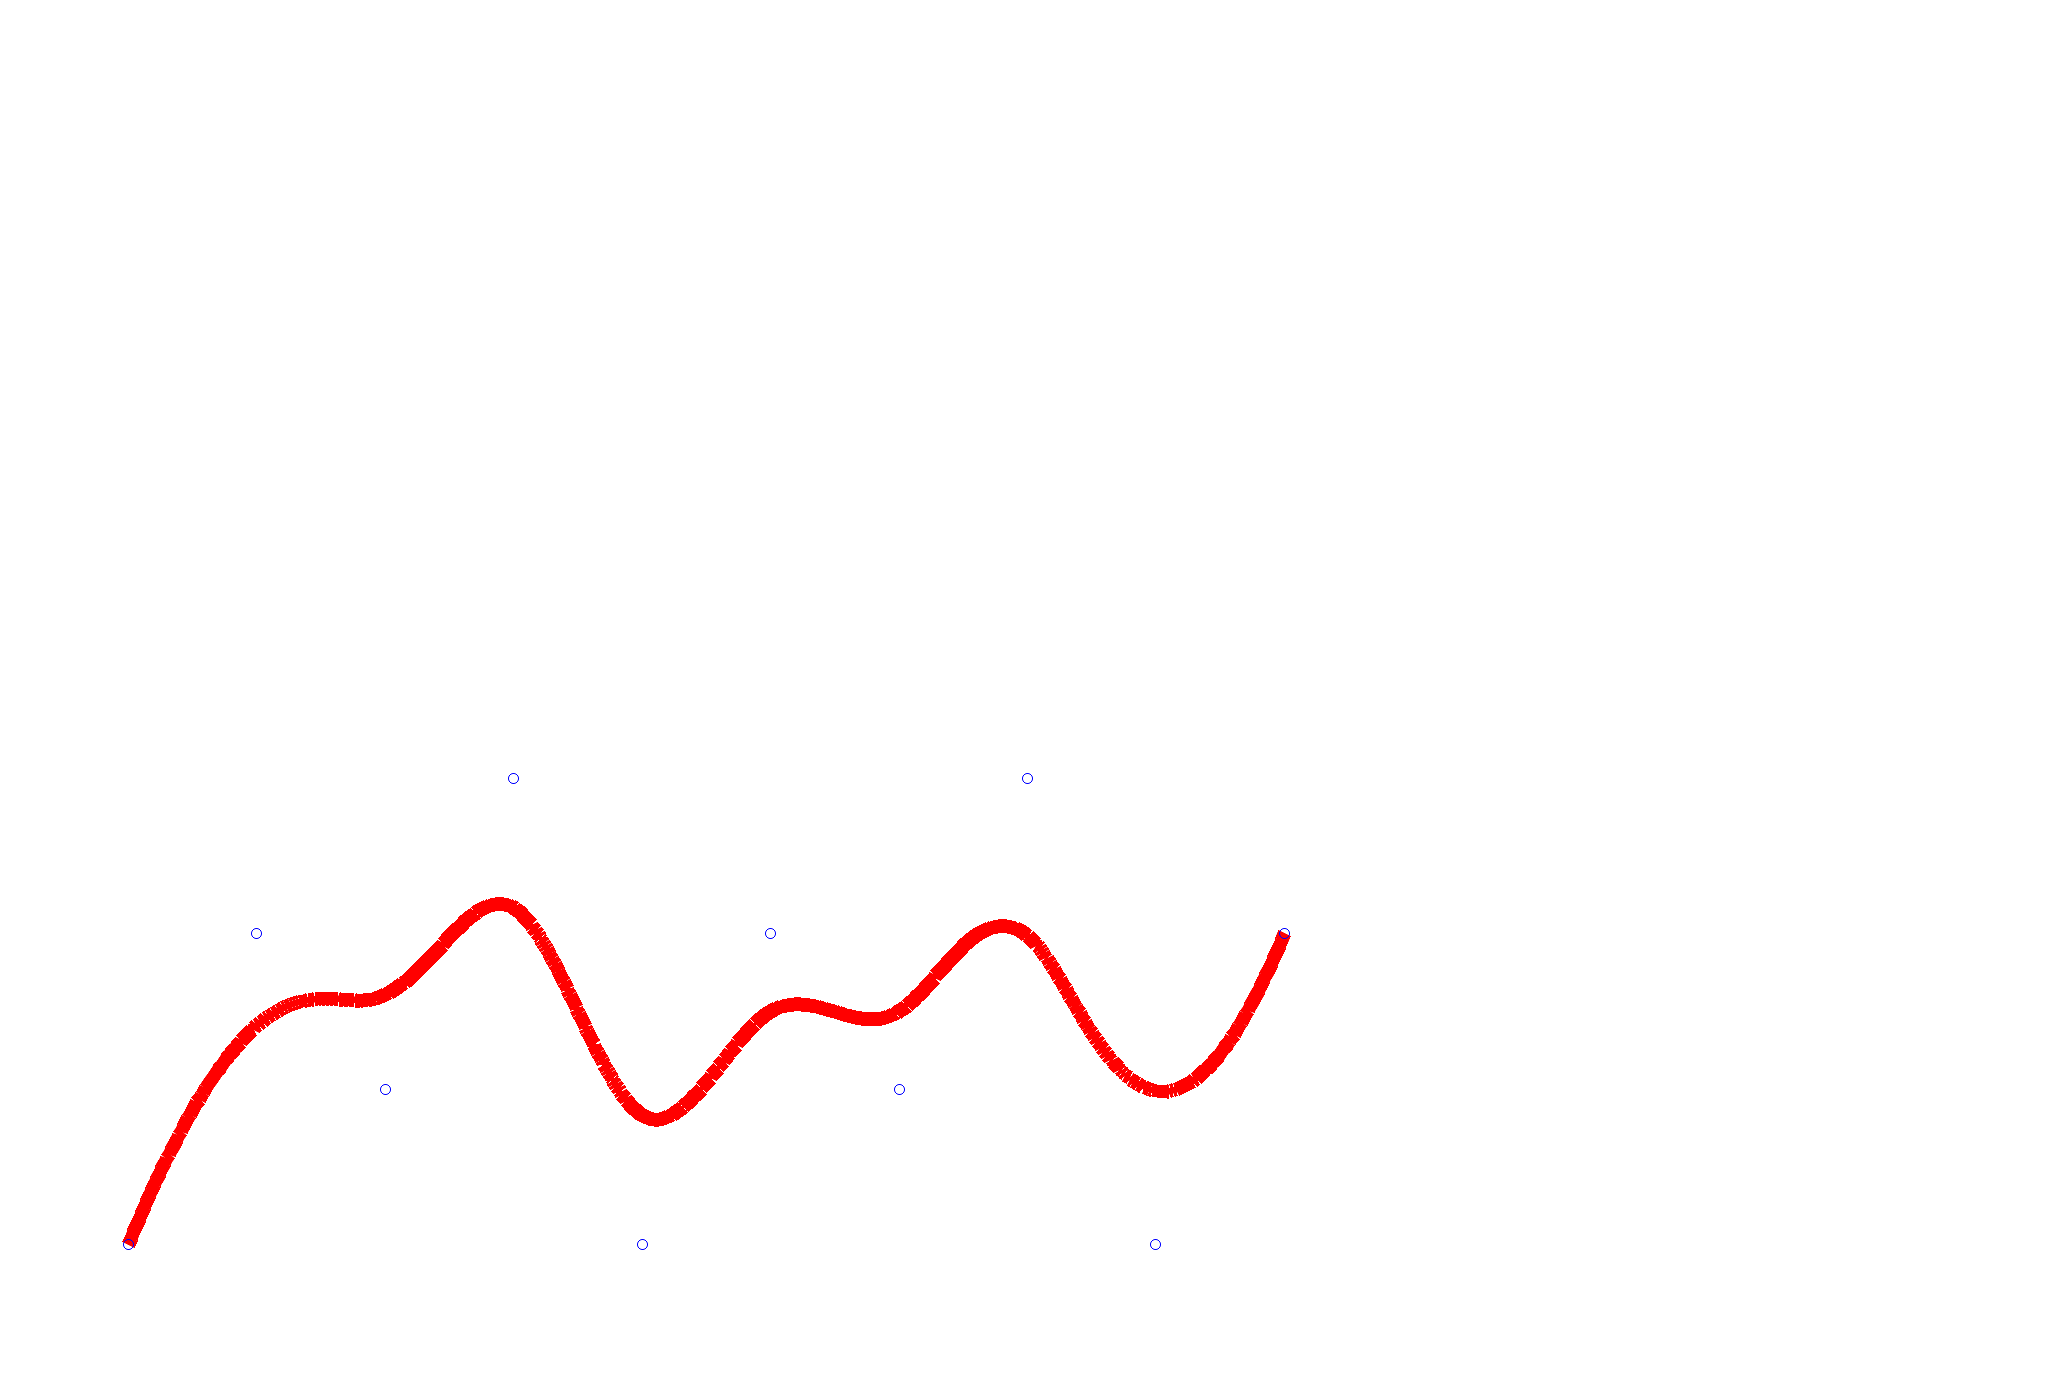
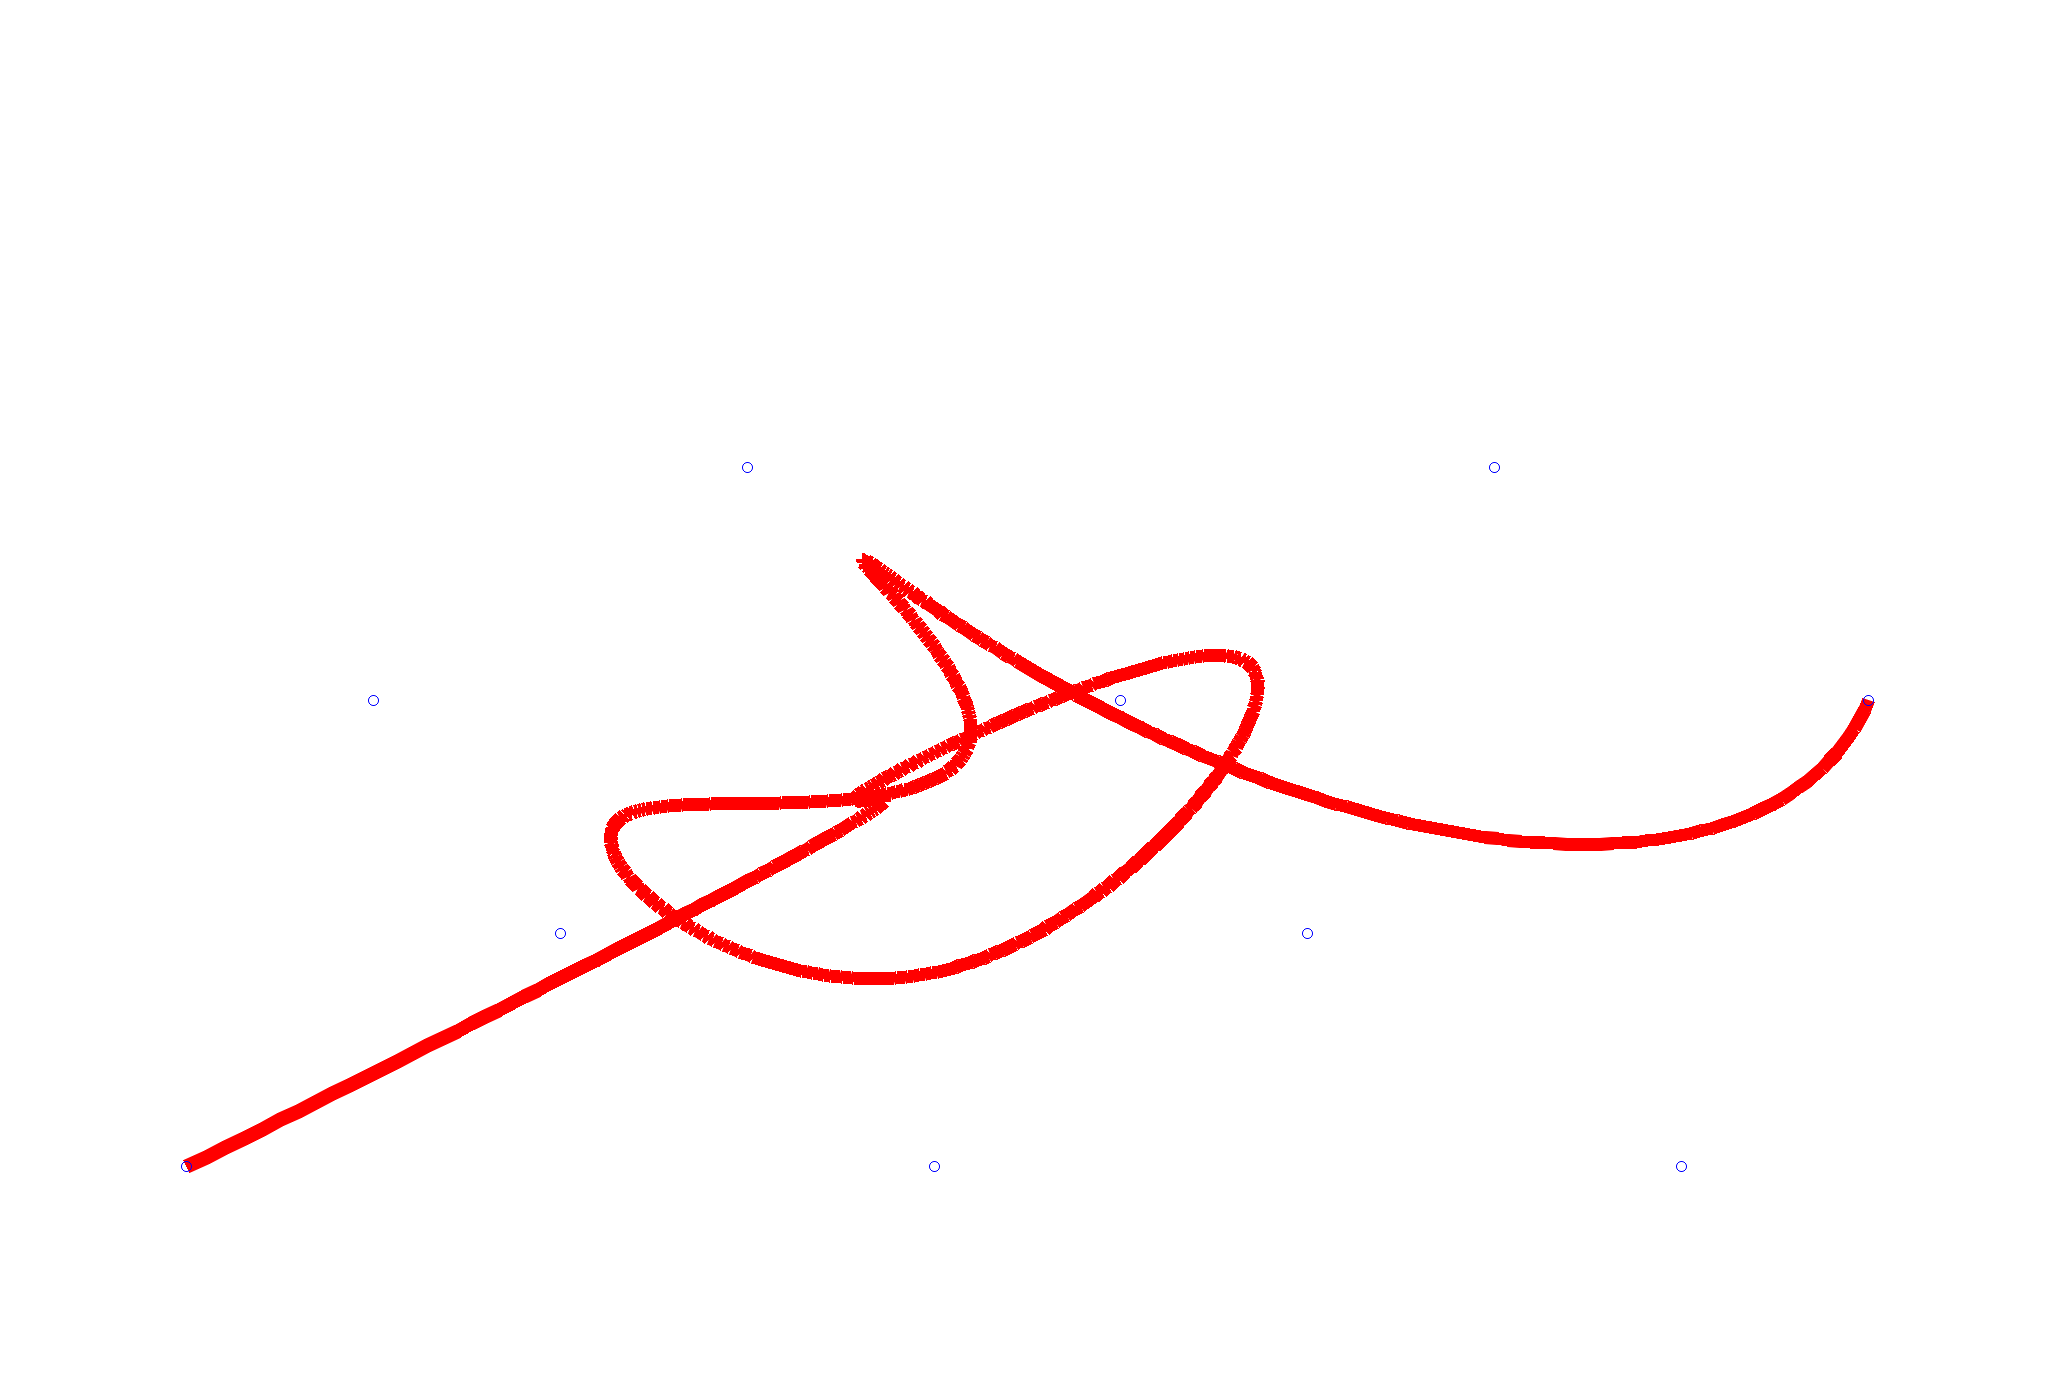
removed b-spline implementation as NURBS is a generalization of b-spline, added some documentation

diff --git a/src/interpolate/nurbs.rs b/src/interpolate/nurbs.rs
@@ -89,88 +89,6 @@ fn find_knot_span(t: f64, knot_vector: &[f64]) -> Option<usize> {
         .position(|window| t >= window[0] && t < window[1])
 }
 
-pub struct BSpline {
-    ctrl_pts: Vec<(f64, f64)>,
-    p: usize,
-    knot_vector: Vec<f64>,
-}
-
-impl BSpline {
-    /// Constructs a new instance of a B-spline curve.
-    ///
-    /// # Parameters
-    ///
-    /// - `ctrl_pts: &[(f64, f64)]`: A slice of control points, each represented as a tuple `(x, y)`.
-    ///   These points define the shape of the B-spline curve.
-    /// - `p: usize`: The degree of the B-spline curve. This determines the smoothness and complexity of the curve.
-    ///
-    /// # Returns
-    ///
-    /// - `Result<Self, ParametricCurveError>`: Returns an `Ok` variant containing the newly created B-spline curve
-    ///   if successful. If the function encounters an error, it returns an `Err` variant containing a `ParametricCurveError`.
-    ///
-    /// # Errors
-    ///
-    /// - `ParametricCurveError::InvalidBSplineConfiguration`: This error is returned if the number of control points
-    ///   is insufficient for the given degree `p`.
-    ///
-    /// # Notes
-    ///
-    /// - The function internally clones the provided control points and constructs a uniform knot vector based
-    ///   on the number of control points and the degree `p`.
-    /// - The knot vector is stored as part of the B-spline object for future evaluations of the curve.
-    pub(crate) fn new(ctrl_pts: &[(f64, f64)], p: usize) -> Result<Self, ParametricCurveError> {
-        let ctrl_pts_copy = ctrl_pts.to_vec();
-        let knot_vector = construct_uniform_knot_vector(ctrl_pts_copy.len(), p)?;
-        Ok(Self {
-            ctrl_pts: ctrl_pts_copy,
-            p,
-            knot_vector,
-        })
-    }
-
-    /// Evaluates the B-spline curve at a given parameter `t` using De Boor's Algorithm.
-    ///
-    /// # Parameters
-    /// - `t`: The parameter at which to evaluate the curve. Must be in the range [0, 1].
-    ///
-    /// # Returns
-    /// - `Option<(f64, f64)>`: The point `(x, y)` on the curve corresponding to the parameter `t`.
-    ///   Returns `None` if `t` is out of range or if the knot span cannot be found.
-    ///
-    /// # Algorithm
-    /// 1. Finds the knot span index `i` for the given parameter `t` using the knot vector.
-    /// 2. Extracts the local control points that influence the curve at `t`.
-    /// 3. Applies De Boor's Algorithm to iteratively compute the point on the curve.
-    ///
-    /// # Notes
-    /// - This function assumes that the knot vector and control points are already set.
-    /// - The function uses a uniform knot vector.
-    /// - The function is designed to work with non-rational B-splines.
-    ///
-    /// # Errors
-    /// - Returns `None` if `t` is not in the range [0, 1] or if the knot span cannot be found.
-    pub fn eval(&self, t: f64) -> Option<(f64, f64)> {
-        let i = find_knot_span(t, &self.knot_vector)?;
-
-        let mut local_ctrl_pts = self.ctrl_pts[i - self.p..=i].to_vec();
-
-        // De Boor's Algorithm
-        for r in 1..=self.p {
-            for j in (r..=self.p).rev() {
-                let alpha = (t - self.knot_vector[i + j - self.p])
-                    / (self.knot_vector[i + j + 1 - r] - self.knot_vector[i + j - self.p]);
-                local_ctrl_pts[j].0 =
-                    (1.0 - alpha) * local_ctrl_pts[j - 1].0 + alpha * local_ctrl_pts[j].0;
-                local_ctrl_pts[j].1 =
-                    (1.0 - alpha) * local_ctrl_pts[j - 1].1 + alpha * local_ctrl_pts[j].1;
-            }
-        }
-
-        Some(local_ctrl_pts[self.p])
-    }
-}
-
 pub struct Nurbs {
     ctrl_pts: Vec<(f64, f64)>,
     weights: Vec<f64>,
@@ -179,6 +97,35 @@ pub struct Nurbs {
 }
 
 impl Nurbs {
+    /// Constructs a new `Nurbs` curve with the given parameters.
+    ///
+    /// This constructor performs a series of validations to ensure that the NURBS curve is well-defined. Specifically, it checks the degree, knot vector, and weights to ensure they meet the requirements for a valid NURBS curve.
+    ///
+    /// # Parameters
+    ///
+    /// * `ctrl_pts: &[(f64, f64)]` - A slice of control points, each represented as a tuple `(x, y)`.
+    /// * `p: usize` - The degree of the curve.
+    /// * `weights: Option<&[f64]>` - An optional slice of weights, one for each control point. If not provided, uniform weights of 1.0 are assumed.
+    /// * `knot_vector: Option<&[f64]>` - An optional slice representing the knot vector. If not provided, a uniform knot vector is constructed.
+    ///
+    /// # Returns
+    ///
+    /// * `Result<Self, ParametricCurveError>` - Returns `Ok(Nurbs)` if the curve is successfully constructed, otherwise returns an `Err` with a `ParametricCurveError` detailing the reason for the failure.
+    ///
+    /// # Validations
+    ///
+    /// 1. **Degree**: The degree `p` must be less than the number of control points `n`.
+    /// 2. **Knot Vector**: If provided, the knot vector must meet the following criteria:
+    ///     - Its length must be `n + p + 1`.
+    ///     - It must be non-decreasing.
+    ///     - The multiplicity of the first and last knots should be `p + 1`.
+    ///     - The multiplicity of internal knots should not exceed `p`.
+    /// 3. **Weights**: If provided, all weights must be non-negative.
+    ///
+    /// # Errors
+    ///
+    /// Returns a `ParametricCurveError` if any of the validations fail.
+    ///
     pub(crate) fn new(
         ctrl_pts: &[(f64, f64)],
         p: usize,
@@ -257,7 +204,7 @@ impl Nurbs {
             }
 
             // Non-Positive Weights: All weights should be positive. If any weight is zero or negative, throw an error.
-            if weights.iter().any(|&x| x < 0.0) {
+            if weights.iter().any(|&x| x <= 0.0) {
                 return Err(ParametricCurveError::NURBSConfiguration(
                     "Negative weight has been encountered. Be sure to have non negative values in weights vector.".to_string(),
                 ));
@@ -278,6 +225,18 @@ impl Nurbs {
         })
     }
 
+    /// Evaluates the NURBS curve at a given parameter `t`.
+    ///
+    /// This method uses De Boor's Algorithm to compute the Cartesian coordinates `(x, y)` of the point on the curve corresponding to the parameter `t`. The algorithm is applied in the homogeneous coordinate space and then converted back to Cartesian coordinates.
+    ///
+    /// # Parameters
+    ///
+    /// * `t: f64` - The parameter at which to evaluate the curve. It should lie within the domain defined by the knot vector.
+    ///
+    /// # Returns
+    ///
+    /// * `Option<(f64, f64)>` - Returns `Some((x, y))` where `(x, y)` are the Cartesian coordinates of the point on the curve at parameter `t`. Returns `None` if `t` is outside the domain of the curve.
+    ///
     pub fn eval(&self, t: f64) -> Option<(f64, f64)> {
         let i = find_knot_span(t, &self.knot_vector)?;
 
@@ -319,6 +278,29 @@ impl Nurbs {
         Some(final_point)
     }
 
+    /// Sets the value of the knot at a specific index in the knot vector.
+    ///
+    /// This method performs validations to ensure that the new knot value maintains the integrity of the NURBS curve. Specifically, it checks for out-of-bounds index, clamping conditions, and non-decreasing order of the knot vector.
+    ///
+    /// # Parameters
+    ///
+    /// * `index: usize` - The index in the knot vector where the new knot value will be set.
+    /// * `value: f64` - The new knot value.
+    ///
+    /// # Returns
+    ///
+    /// * `Result<(), ParametricCurveError>` - Returns `Ok(())` if the knot value is successfully set. Otherwise, returns an `Err` with a `ParametricCurveError` detailing the reason for the failure.
+    ///
+    /// # Validations
+    ///
+    /// 1. **Out-of-Bounds**: The index must be within the range of the knot vector.
+    /// 2. **Clamping Condition**: The index must not be within the first or last `p + 1` knots, where `p` is the degree of the curve.
+    /// 3. **Non-Decreasing Order**: The new knot value must maintain the non-decreasing order of the knot vector.
+    ///
+    /// # Errors
+    ///
+    /// Returns a `ParametricCurveError` if any of the validations fail.
+    ///
     pub fn set_knot_at(&mut self, index: usize, value: f64) -> Result<(), ParametricCurveError> {
         // Check for out-of-bounds index
         if index >= self.knot_vector.len() {
@@ -340,12 +322,42 @@ impl Nurbs {
         Ok(())
     }
 
-    pub fn set_weight_at(&mut self, index: usize, value: f64) -> Result<(), &'static str> {
+    /// Sets the weight of a control point at a specific index.
+    ///
+    /// This method updates the weight associated with the control point at the given index. It performs validations to ensure that the index is within the bounds of the weights vector and that the weight is a positive value.
+    ///
+    /// # Parameters
+    ///
+    /// * `index: usize` - The index in the weights vector where the new weight will be set.
+    /// * `value: f64` - The new weight value.
+    ///
+    /// # Returns
+    ///
+    /// * `Result<(), ParametricCurveError>` - Returns `Ok(())` if the weight is successfully set. Otherwise, returns an `Err` with a `ParametricCurveError` detailing the reason for the failure.
+    ///
+    /// # Validations
+    ///
+    /// 1. **Out-of-Bounds**: The index must be within the range of the weights vector.
+    /// 2. **Positive Value**: The weight must be a positive real number.
+    ///
+    /// # Errors
+    ///
+    /// Returns a `ParametricCurveError` if the index is out of bounds or the weight is not a positive value.
+    ///
+    pub fn set_weight_at(&mut self, index: usize, value: f64) -> Result<(), ParametricCurveError> {
         if index < self.weights.len() {
-            self.weights[index] = value;
-            Ok(())
+            if value > 0.0 {
+                self.weights[index] = value;
+                Ok(())
+            } else {
+                Err(ParametricCurveError::NURBSConfiguration(
+                    "Weight value should be a positive value.".to_string(),
+                ))
+            }
         } else {
-            Err("Index out of bounds")
+            Err(ParametricCurveError::NURBSConfiguration(
+                "Weight index out of bounds.".to_string(),
+            ))
         }
     }
 }

diff --git a/src/interpolate/parametric_curve.rs b/src/interpolate/parametric_curve.rs
@@ -1,7 +1,4 @@
-use super::{
-    b_spline::{BSpline, Nurbs},
-    cubic_bezier::CubicBezierCurve,
-};
+use super::{cubic_bezier::CubicBezierCurve, nurbs::Nurbs};
 
 /// Constructs a new cubic Bezier curve.
 ///
@@ -21,46 +18,60 @@ pub fn cubic_bezier(
     CubicBezierCurve::new(p0, p1, p2, p3)
 }
 
-/// Constructs a new cubic B-spline curve.
+/// Creates a NURBS curve with the given control points and degree.
+///
+/// This function serves as a simplified API for creating a NURBS curve. It only requires the control points and the degree of the curve, using default values for the weights and knot vector.
 ///
 /// # Parameters
 ///
-/// - `ctrl_pts: &[(f64, f64)]`: A slice of control points that define the B-spline curve.
+/// * `ctrl_pts: &[(f64, f64)]` - An array of control points for the curve.
+/// * `p: usize` - The degree of the curve.
 ///
 /// # Returns
 ///
-/// - `Result<BSpline, super::error_utils::ParametricCurveError>`: A new cubic B-spline curve object or an error.
-pub fn cubic_bspline(
-    ctrl_pts: &[(f64, f64)],
-) -> Result<BSpline, super::error_utils::ParametricCurveError> {
-    BSpline::new(ctrl_pts, 3)
-}
-
-/// Constructs a new B-spline curve of degree `p`.
+/// * `Result<Nurbs, super::error_utils::ParametricCurveError>` - Returns a `Nurbs` object if the curve is successfully created. Otherwise, returns an `Err` with a `ParametricCurveError` detailing the reason for the failure.
 ///
-/// # Parameters
+/// # Examples
 ///
-/// - `ctrl_pts: &[(f64, f64)]`: A slice of control points that define the B-spline curve.
-/// - `p: usize`: The degree of the B-spline curve.
-///
-/// # Returns
-///
-/// - `Result<BSpline, super::error_utils::ParametricCurveError>`: A new B-spline curve object or an error.
-pub fn bspline(
-    ctrl_pts: &[(f64, f64)],
-    p: usize,
-) -> Result<BSpline, super::error_utils::ParametricCurveError> {
-    BSpline::new(ctrl_pts, p)
-}
-
-pub fn nurbs(
+/// ```
+/// use snt::interpolate::parametric_curve::nurbs_curve;
+/// let ctrl_pts = vec![(0.0, 0.0), (1.0, 1.0), (2.0, 0.0)];
+/// let p = 2;
+/// let curve = nurbs_curve(&ctrl_pts, p);
+/// ```
+pub fn nurbs_curve(
     ctrl_pts: &[(f64, f64)],
     p: usize,
 ) -> Result<Nurbs, super::error_utils::ParametricCurveError> {
     Nurbs::new(ctrl_pts, p, None, None)
 }
 
-pub fn nurbs_advanced(
+/// Creates a NURBS curve with advanced options.
+///
+/// This function provides a more advanced API for creating a NURBS curve, allowing for custom weights and knot vectors in addition to the control points and degree.
+///
+/// # Parameters
+///
+/// * `ctrl_pts: &[(f64, f64)]` - An array of control points for the curve.
+/// * `p: usize` - The degree of the curve.
+/// * `weights: Option<&[f64]>` - An optional array of weights for the control points.
+/// * `knot_vector: Option<&[f64]>` - An optional knot vector for the curve.
+///
+/// # Returns
+///
+/// * `Result<Nurbs, super::error_utils::ParametricCurveError>` - Returns a `Nurbs` object if the curve is successfully created. Otherwise, returns an `Err` with a `ParametricCurveError` detailing the reason for the failure.
+///
+/// # Examples
+///
+/// ```
+/// use snt::interpolate::parametric_curve::nurbs_curve_advanced;
+/// let ctrl_pts = vec![(0.0, 0.0), (1.0, 1.0), (2.0, 0.0)];
+/// let p = 2;
+/// let weights = vec![1.0, 0.5, 1.0];
+/// let knot_vector = vec![0.0, 0.0, 0.0, 1.0, 1.0, 1.0];
+/// let curve = nurbs_curve_advanced(&ctrl_pts, p, Some(&weights), Some(&knot_vector));
+/// ```
+pub fn nurbs_curve_advanced(
     ctrl_pts: &[(f64, f64)],
     p: usize,
     weights: Option<&[f64]>,

diff --git a/tests/nurbs_tests.rs b/tests/nurbs_tests.rs
@@ -1,31 +1,31 @@
 #[cfg(test)]
 mod nurbs_tests {
-    use snt::interpolate::parametric_curve::nurbs;
+    use snt::interpolate::parametric_curve::nurbs_curve;
 
     #[test]
     pub fn nurbs_test() -> Result<(), Box<dyn std::error::Error>> {
         use plotters::prelude::*;
         let root_drawing_area =
-            BitMapBackend::new("nurbs_img_2.png", (2056, 1400)).into_drawing_area();
+            BitMapBackend::new("nurbs_img_1.png", (2056, 1400)).into_drawing_area();
         root_drawing_area.fill(&WHITE)?;
 
         let mut chart =
-            ChartBuilder::on(&root_drawing_area).build_cartesian_2d(-1f64..15f64, -1f64..8f64)?;
+            ChartBuilder::on(&root_drawing_area).build_cartesian_2d(-1f64..10f64, -1f64..5f64)?;
 
         let ctrl_pts = vec![
             (0.0, 0.0),
-            (1.0, 2.0),
-            (2.0, 1.0),
-            (3.0, 3.0),
-            (4.0, 0.0),
             (5.0, 2.0),
-            (6.0, 1.0),
+            (2.0, 1.0),
             (7.0, 3.0),
+            (4.0, 0.0),
+            (1.0, 2.0),
+            (6.0, 1.0),
+            (3.0, 3.0),
             (8.0, 0.0),
             (9.0, 2.0),
         ];
 
-        let mut bspline = nurbs(&ctrl_pts, 3).unwrap();
+        let mut bspline = nurbs_curve(&ctrl_pts, 3).unwrap();
         bspline.set_weight_at(7, 3.4).unwrap();
 
         let curve_points: Vec<(f64, f64)> = (0..=1000)

diff --git a/src/lib.rs b/src/lib.rs
@@ -3,12 +3,12 @@ pub mod optimize {
 }
 
 pub mod interpolate {
-    mod b_spline;
     mod cubic_bezier;
     mod cubic_spline;
     mod error_utils;
     pub mod interpolator;
     mod linear_spline;
+    mod nurbs;
     pub mod parametric_curve;
     pub mod parametric_interpolator;
 }
